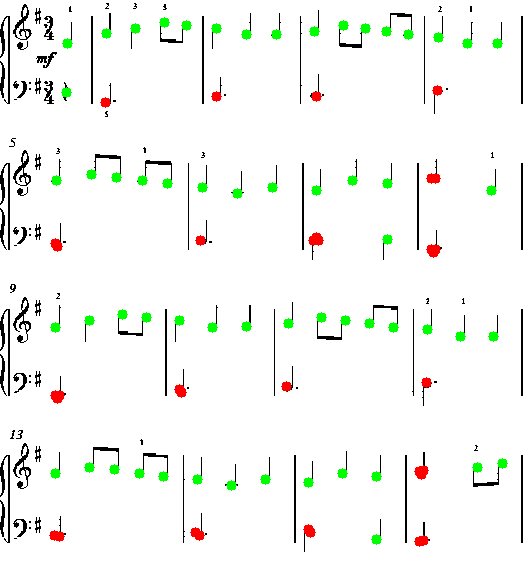
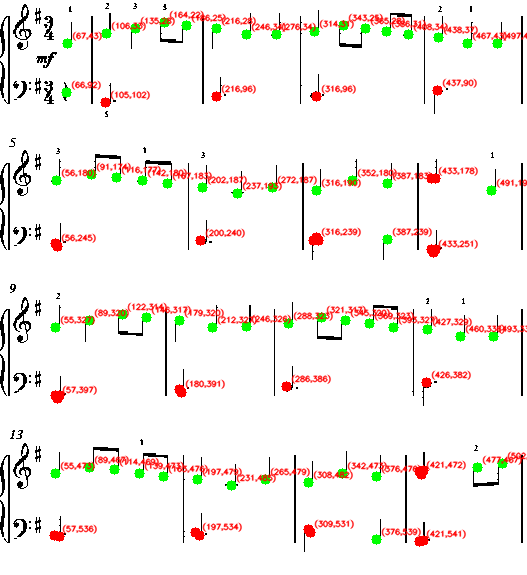
sort the notes by y-coord then x-coord, then read the txt files generated

diff --git a/musicalnoteidentification.py b/musicalnoteidentification.py
@@ -1,7 +1,6 @@
 import cv2
 import numpy as np
 
-
 def check_notehead_attached_to_stem(image_path, save_path, bar_boxes, staff_lines):
     # Load the image
     image = cv2.imread(image_path)
@@ -26,45 +25,75 @@ def check_notehead_attached_to_stem(image_path, save_path, bar_boxes, staff_line
     # Mask for valid noteheads
     valid_mask = np.zeros_like(mask_noteheads)
 
-    note_types = []
-    note_positions = []
-    note_staff_positions = []
-    note_durations = []
-    note_relative_positions = []
-
     # Group staff lines into sets of 5 (assuming they are detected correctly)
     staff_groups = [staff_lines[i:i + 5] for i in range(0, len(staff_lines), 5)]
+
+    # Assign bars based on Y-sorting
+    bar_notes = {}  # Dictionary to store noteheads within each bar
+
+    # Sort contours by Y-coordinate (top to bottom) to assign bars
+    contours = sorted(contours, key=lambda cnt: cv2.boundingRect(cnt)[1])
+
+    current_bar = 1
+    previous_y = None  # Track previous notehead's Y-coordinate
 
     for cnt in contours:
         x, y, w, h = cv2.boundingRect(cnt)
         cx, cy = x + w // 2, y + h // 2  # Notehead center
-        x1, y1, x2, y2 = cx - 6, cy - 6, cx + 6, cy + 6
-
-        # Determine notehead type
-        is_filled = mask_green[cy, cx] > 0
-        is_unfilled = mask_red[cy, cx] > 0
+        x1, y1, x2, y2 = cx - 6, cy - 6, cx + 6, cy + 6  # Fixed 12x12 bounding box
 
         # Check if notehead is inside a bar box
         inside_any_bar = any(not (x2 < bx or x1 > bx + bw or y2 < by or y1 > by + bh) for bx, by, bw, bh in bar_boxes)
 
         if inside_any_bar:
+            # Assign a new bar if the Y difference is more than 30 pixels
+            if previous_y is not None and abs(cy - previous_y) > 30:
+                current_bar += 1
+
+            previous_y = cy  # Update previous notehead's Y-coordinate
+
+            # Store notehead in corresponding bar
+            if current_bar not in bar_notes:
+                bar_notes[current_bar] = []
+            bar_notes[current_bar].append((cnt, cx, cy))
+
             # Keep valid noteheads
             cv2.drawContours(valid_mask, [cnt], -1, 255, thickness=cv2.FILLED)
-            note_positions.append((cx, cy))
 
-            # Check for stem attachment
+    # Lists to store final note information
+    note_types = []
+    note_positions = []
+    note_staff_positions = []
+    note_durations = []
+    note_relative_positions = []
+    note_bars = []
+
+    # Sort noteheads **within each bar** by X-coordinate and process them
+    for bar, notes in bar_notes.items():
+        notes.sort(key=lambda item: item[1])  # Sort by X-coordinate
+        for cnt, cx, cy in notes:
+            x1, y1, x2, y2 = cx - 6, cy - 6, cx + 6, cy + 6  # Fixed 12x12 bounding box
+
+            # Extract 12x12 region for stem detection
             stem_roi = mask_noteheads[y1:y2, x1:x2]
             has_stem = np.any(stem_roi > 0)
 
-            # Check if note is near a beam
-            beam_roi = mask_yellow[y1 - 10:y2 + 10, x1:x2]
-            is_quaver = np.any(beam_roi > 0)
+            # Check for beam overlap in stem ROI
+            beam_roi = mask_yellow[y1:y2, x1:x2]
+            stem_touches_beam = np.any(beam_roi > 0)
+
+            # Ensure notehead center is NOT on a beam
+            notehead_on_beam = mask_yellow[cy, cx] > 0
 
             # Classify notes
-            if is_filled:
-                note_types.append("Quaver" if is_quaver else "Crotchet")
-                note_durations.append(0.5 if is_quaver else 1)
-            elif is_unfilled:
+            if mask_green[cy, cx] > 0:
+                if stem_touches_beam and not notehead_on_beam:
+                    note_types.append("Quaver")
+                    note_durations.append(0.5)
+                else:
+                    note_types.append("Crotchet")
+                    note_durations.append(1)
+            elif mask_red[cy, cx] > 0:
                 note_types.append("Minim" if has_stem else "Semibreve")
                 note_durations.append(2 if has_stem else 4)
 
@@ -79,6 +108,14 @@ def check_notehead_attached_to_stem(image_path, save_path, bar_boxes, staff_line
             relative_positions = [line - cy for line in closest_staff]
             note_relative_positions.append(relative_positions)
 
+            # Store note position and bar
+            note_positions.append((cx, cy))
+            note_bars.append(bar)
+
+            # Draw coordinates in small red text
+            cv2.putText(image, f"({cx},{cy})", (cx + 5, cy - 5), cv2.FONT_HERSHEY_SIMPLEX,
+                        0.25, (0, 0, 255), 1, cv2.LINE_AA)
+
     # Update image to remove invalid noteheads
     image[np.where((mask_noteheads > 0) & (valid_mask == 0))] = [255, 255, 255]
 
@@ -86,19 +123,18 @@ def check_notehead_attached_to_stem(image_path, save_path, bar_boxes, staff_line
     cv2.imwrite(save_path, image)
     print(f"Processed image saved to: {save_path}")
 
-    # Sort noteheads by x-coordinate before printing results
-    sorted_notes = sorted(
-        zip(note_positions, note_types, note_durations, note_staff_positions, note_relative_positions),
-        key=lambda item: item[0][0])
+    # Save results to a text file
+    results_path = "results.txt"
+    with open(results_path, "w") as file:
+        for i in range(len(note_positions)):
+            file.write(f"{note_types[i]},{note_positions[i][0]},{note_positions[i][1]},"
+                       f"{note_staff_positions[i]},{note_durations[i]},"
+                       f"{note_relative_positions[i]}\n")  # Keep bar number
 
-    # Print sorted results
-    for (x, y), note_type, duration, staff_y, rel_pos in sorted_notes:
-        print(f"Note at ({x}, {y}) classified as {note_type}, Duration: {duration} beats, "
-              f"Nearest staff line at y={staff_y}, Relative positions: {rel_pos}")
+    print(f"Results saved to: {results_path}")
 
-    return note_types, note_positions, note_staff_positions, note_durations, note_relative_positions
-
-
+    # Return note information sorted into bars
+    return note_types, note_positions, note_staff_positions, note_durations, note_relative_positions, note_bars
 def draw_boundingbox(barboundbox_image_path, notehead_image_path, output_path):
     # Load the barboundbox image (with the green bounding boxes)
     barboundbox_image = cv2.imread(barboundbox_image_path)
@@ -168,6 +204,3 @@ def draw_yellow_line_on_beam(lines_image_path, notehead_image_path, output_path)
     # Save the output image
     cv2.imwrite(output_path, notehead_img)
     print(f"Yellow lines drawn on white parts and saved to: {output_path}")
-
-
-

diff --git a/midifile.py b/midifile.py
@@ -1,0 +1,69 @@
+from midiutil import MIDIFile
+import csv
+import re
+
+def read_notehead_classification(file_path):
+    """Reads the notehead classification file and extracts noteheads with labeled numerical values."""
+    noteheads = []
+
+    try:
+        with open(file_path, 'r', encoding='utf-8') as file:
+            reader = csv.reader(file)
+
+            for row in reader:
+                if len(row) < 6:
+                    print(f"Skipping malformed row: {row}")
+                    continue  # Skip incomplete rows
+
+                try:
+                    note_type = row[0].strip()
+                    note_x = int(row[1].strip())
+                    note_y = int(row[2].strip())
+                    staff_y = int(row[3].strip())
+                    duration = float(row[4].strip())
+
+                    # Extract numbers from relative_positions
+                    raw_positions = " ".join(row[5:]).strip()
+                    match = re.findall(r'-?\d+', raw_positions)  # Extract all numbers
+                    relative_positions = [int(p) for p in match]
+
+                    # Store correctly within the parsed notehead
+                    parsed_notehead = {
+                        'type': note_type,
+                        'x': note_x,
+                        'y': note_y,
+                        'staff_y': staff_y,
+                        'duration': duration,
+                        'relative_positions': relative_positions  # ✅ Assigned correctly
+                    }
+
+                    noteheads.append(parsed_notehead)
+
+                    # Debugging print - Confirm correct parsing
+                    print(f"Parsed Notehead: {parsed_notehead}")
+
+                except ValueError as ve:
+                    print(f"Skipping invalid row {row}: {ve}")  # Log issue for debugging
+
+    except Exception as e:
+        print(f"Error reading notehead file {file_path}: {e}")
+
+    return noteheads
+
+def read_clef_classification(file_path):
+    """Reads the clef classification file and extracts clefs with their y-coordinates."""
+    clefs = []
+    try:
+        with open(file_path, 'r') as file:
+            for line in file:
+                match = re.match(r'([TB]),(\d+),\s*(\d+)', line.strip())
+                if match:
+                    clef_type = match.group(1)  # 'T' for Treble, 'B' for Bass
+                    staff_number = int(match.group(2))  # Staff number
+                    y_position = int(match.group(3))  # Y-coordinate
+                    clefs.append((clef_type, staff_number, y_position))
+    except Exception as e:
+        print(f"Error reading clef file {file_path}: {e}")
+
+    return clefs
+

diff --git a/midi_analysis.py b/midi_analysis.py
@@ -1,0 +1,46 @@
+import mido
+from mido import MidiFile
+
+# Mapping of MIDI pitch numbers to note names
+NOTE_NAMES = ['C', 'C#', 'D', 'D#', 'E', 'F', 'F#', 'G', 'G#', 'A', 'A#', 'B']
+
+
+def midi_pitch_to_note(pitch):
+    """Convert MIDI pitch number to note name and octave."""
+    note = NOTE_NAMES[pitch % 12]
+    octave = (pitch // 12) - 1  # MIDI octave calculation
+    return f"{note}{octave}"
+
+
+def analyze_midi(file_path):
+    """Reads and analyzes a MIDI file, printing pitch, duration, and note names."""
+    midi = MidiFile(file_path)
+
+    note_events = {}  # Store note start times
+    track_notes = []  # Store extracted note information
+
+    for track in midi.tracks:
+        current_time = 0  # Track cumulative time
+        for msg in track:
+            current_time += msg.time  # MIDI time in ticks
+
+            if msg.type == 'note_on' and msg.velocity > 0:  # Note played
+                note_events[msg.note] = current_time
+
+            elif msg.type == 'note_off' or (msg.type == 'note_on' and msg.velocity == 0):  # Note released
+                if msg.note in note_events:
+                    start_time = note_events.pop(msg.note)
+                    duration = current_time - start_time  # Duration in ticks
+                    note_name = midi_pitch_to_note(msg.note)
+                    track_notes.append((note_name, msg.note, duration))
+
+    # Print the extracted note information
+    print(f"{'Note':<5} {'Pitch':<6} {'Duration (ticks)':<15}")
+    print("-" * 30)
+    for note, pitch, duration in track_notes:
+        print(f"{note:<5} {pitch:<6} {duration:<15}")
+
+
+# Analyze the given MIDI file
+midi_file = "output.mid"
+analyze_midi(midi_file)

diff --git a/main.py b/main.py
@@ -11,6 +11,7 @@ from musicalnoteidentification import (
     draw_yellow_line_on_beam,
     draw_boundingbox,
 )
+from midifile import (read_clef_classification,read_notehead_classification)
 def main():
     # Paths
     pdf_path = 'Image/music1.pdf'
@@ -19,6 +20,9 @@ def main():
     beam_folder = 'beam_images'
     bar_folder = 'bar_line_images'
     result_folder = 'musical_noteidentification'
+    # File paths
+    clef_file = "clef_images/clef_classification.txt"  # Replace with actual file path
+    notehead_file = "results.txt"  # File containing notehead classification
 
     os.makedirs(result_folder, exist_ok=True)
 
@@ -34,6 +38,14 @@ def main():
             stem_detect(processed_image_path)
             beam_detect(processed_image_path)
             bar_detect(processed_image_path)
+
+
+            clefs = read_clef_classification(clef_file)
+            noteheads = read_notehead_classification(notehead_file)
+
+            print(clefs)  # Debugging: check if clefs are read correctly
+            print(noteheads)  # Debugging: check if noteheads are read correctly
+
 
             notehead_blobs_path = os.path.join(notehead_folder, 'processed_image_with_dots.png')
             result_path = os.path.join(result_folder, 'bound_box_notehead.png')
@@ -63,6 +75,8 @@ def main():
                     print(f"Error: Beam detection output not found at {beam_lines_path}")
             else:
                 print(f"Error: Notehead blob image not found at {notehead_blobs_path}")
+
+
 
 
 if __name__ == "__main__":

diff --git a/clef_detection.py b/clef_detection.py
@@ -119,3 +119,12 @@ def crop_clef(processed_image_path):
     blob_detection_path = os.path.join(output_folder, "blob_detection_with_dots.png")
     cv2.imwrite(blob_detection_path, clef_img_color)
     print(f"Blob detection image with blue dots saved at: {blob_detection_path}")
+
+    # Save clef classification to a text file
+    classification_txt_path = os.path.join(output_folder, "clef_classification.txt")
+    with open(classification_txt_path, "w") as file:
+        for cx, cy, clef_type in clef_labels:
+            file.write(f"{clef_type},{cx}, {cy}\n")
+
+    print(f"Clef classification saved at: {classification_txt_path}")
+

diff --git a/grayscalebinarize.py b/grayscalebinarize.py
@@ -2,8 +2,6 @@ import fitz  # PyMuPDF
 from PIL import Image
 import os
 
-
-
 def pdf_to_grayscale_and_binarize(pdfpath, outputfolder, threshold=185):
     print(f"Processing PDF: {pdfpath}")
 
@@ -21,7 +19,7 @@ def pdf_to_grayscale_and_binarize(pdfpath, outputfolder, threshold=185):
     pix = page.get_pixmap()
     # Assuming pix is an object that has width, height, and samples attributes
     width, height = pix.width, pix.height
-    mode = "RGB"  # or whatever mode you're using
+    mode = "RGB"
     data = pix.samples
 
     print(f"Loaded page {page_number + 1} from the PDF.")
